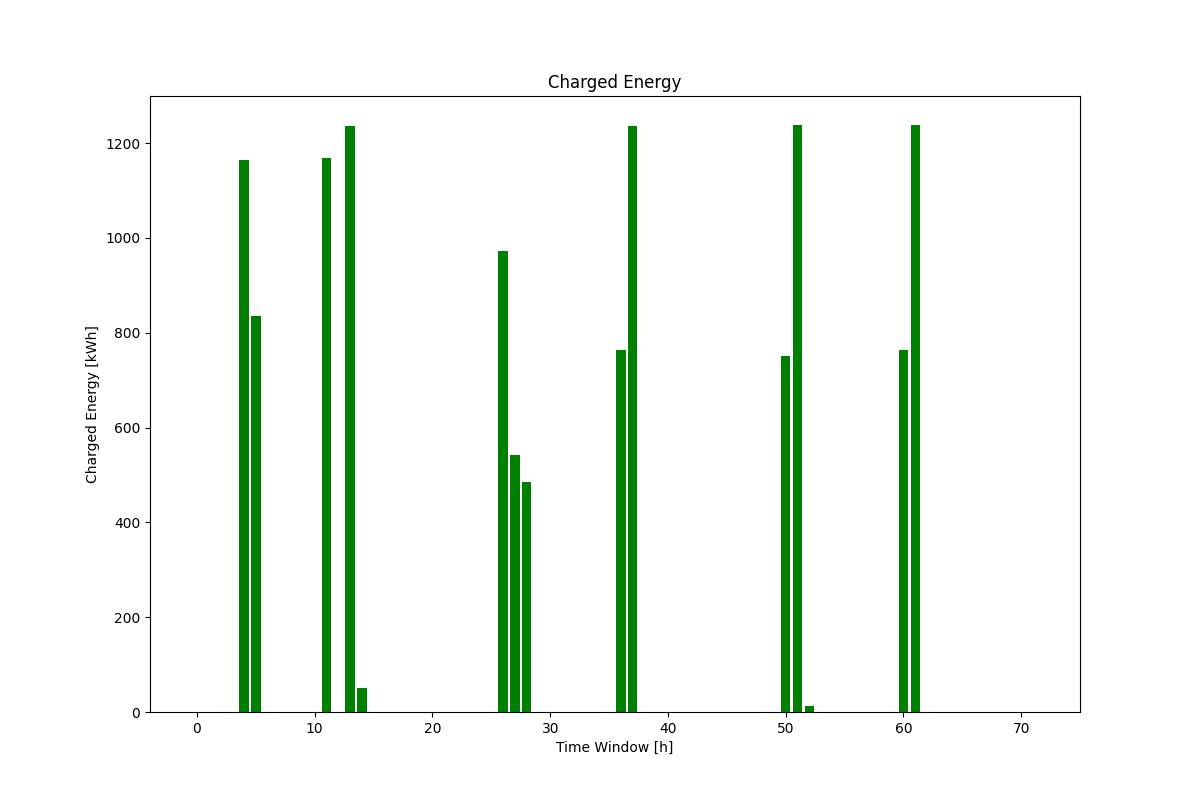
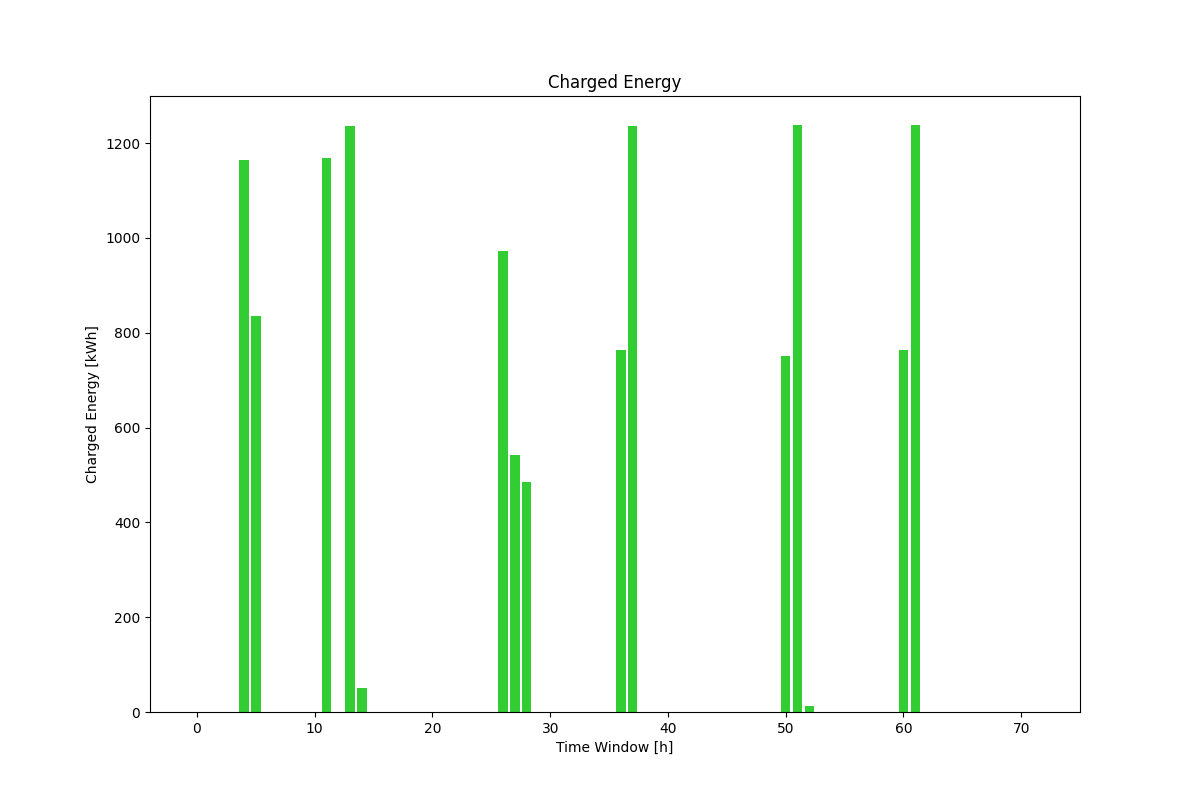
Update #19

diff --git a/Plots.py b/Plots.py
@@ -30,7 +30,7 @@ class EnergyPlots:
 
     def plot_charged_energy(self):
         plt.figure(figsize=(12, 8))
-        plt.bar(self.time_steps, self.charged_energy, color='g')
+        plt.bar(self.time_steps, self.charged_energy, color='limegreen')
         plt.title('Charged Energy')
         plt.xlabel('Time Window [h]')
         plt.ylabel('Charged Energy [kWh]')
@@ -39,7 +39,7 @@ class EnergyPlots:
 
     def plot_discharged_energy(self):
         plt.figure(figsize=(12, 8))
-        plt.bar(self.time_steps, self.discharged_energy, color='r')
+        plt.bar(self.time_steps, self.discharged_energy, color='darkred')
         plt.title('Discharged Energy')
         plt.xlabel('Time Window [h]')
         plt.ylabel('Discharged Energy [kWh]')
@@ -86,61 +86,58 @@ class EnergyPlots:
         plt.savefig(os.path.join(self.plots_dir, "C_D_Energy_with_PUN_and_SOC.png"))
         plt.close()
 
-
 def convergence(n_gen, timewindow, pop_size, X, Y):
-    Y = Y
 
-    # Definisci i timesteps
+    # Define the timesteps
     timesteps = np.arange(0, n_gen)
 
-    # Crea una figura e una griglia di sottotrame
+    # Create a figure and a grid of subplots
     fig, axes = plt.subplots(9, 8, figsize=(20, 18))
 
-    # Appiattiamo l'array degli assi per iterarci sopra
+    # Flatten the array of axes to iterate over them
     axes = axes.flatten()
 
-    # Crea una colormap basata su una gamma di colori più scura
-    cmap = matplotlib.colors.LinearSegmentedColormap.from_list("", ["orange","darkorchid","indigo"])
+    # Create a colormap based on a range of darker colors
+    cmap = matplotlib.colors.LinearSegmentedColormap.from_list("", ["orange", "darkorchid", "indigo"])
 
-
-
-
-    # Normalizza Y utilizzando una scala logaritmica per migliorare la distribuzione dei colori
+    # Normalize Y using a logarithmic scale to improve color distribution
     norm = Normalize(vmin=np.min(Y), vmax=np.max(Y))
 
-
-    # Itera su ogni subplot
+    # Iterate over each subplot
     for k in range(timewindow):
         ax = axes[k]
 
-        # Prepara i dati per il subplot corrente
+        # Prepare data for the current subplot
         for i in range(pop_size):
-            colors = cmap(norm(Y[:, i])*10000)  # Colori basati sui valori normalizzati di Y per l'individuo i
+            # Calculate colors based on normalized Y values for individual i,
+            # scaled by a factor of 10000
+            colors = cmap(norm(Y[:, i]) * 10000)
             ax.scatter(timesteps, X[:, i, k], s=10, alpha=0.8, c=colors)
 
+        # Set title and labels for the subplot
         ax.set_title(f'C/D Energy % at {k + 1}h')
         ax.set_xlabel('Generations')
         ax.set_ylabel('% of C/D')
         ax.grid(True)
 
-    # Nascondi eventuali subplots vuoti se presenti
+    # Hide any empty subplots if present
     for k in range(timewindow, len(axes)):
         fig.delaxes(axes[k])
 
-    # Rimuovi la colorbar
+    # Remove the colorbar (commented out section)
     # sm = plt.cm.ScalarMappable(cmap=cmap, norm=norm)
     # sm.set_array([])
     # cbar = fig.colorbar(sm, ax=axes.tolist(), orientation='vertical', fraction=0.02, pad=0.01)
     # cbar.set_label('Normalized Y values')
 
-    # Aggiungi spaziatura tra i subplots
+    # Add spacing between subplots
     plt.tight_layout()
 
-    # Verifica se la cartella "Plots" esiste, altrimenti creala
+    # Check if the "Plots" folder exists, create it if not
     output_dir = 'Plots'
     if not os.path.exists(output_dir):
         os.makedirs(output_dir)
 
-    # Salva la figura nella cartella "Plots"
+    # Save the figure in the "Plots" folder
     output_path = os.path.join(output_dir, 'convergence.png')
     fig.savefig(output_path)

diff --git a/main.py b/main.py
@@ -119,7 +119,7 @@ if __name__ == "__main__":
     # Algorithm convergence
 
     X = []
-    Y  =[]
+    Y = []
 
     for j in range(len(main.history)):
         X.append([])
